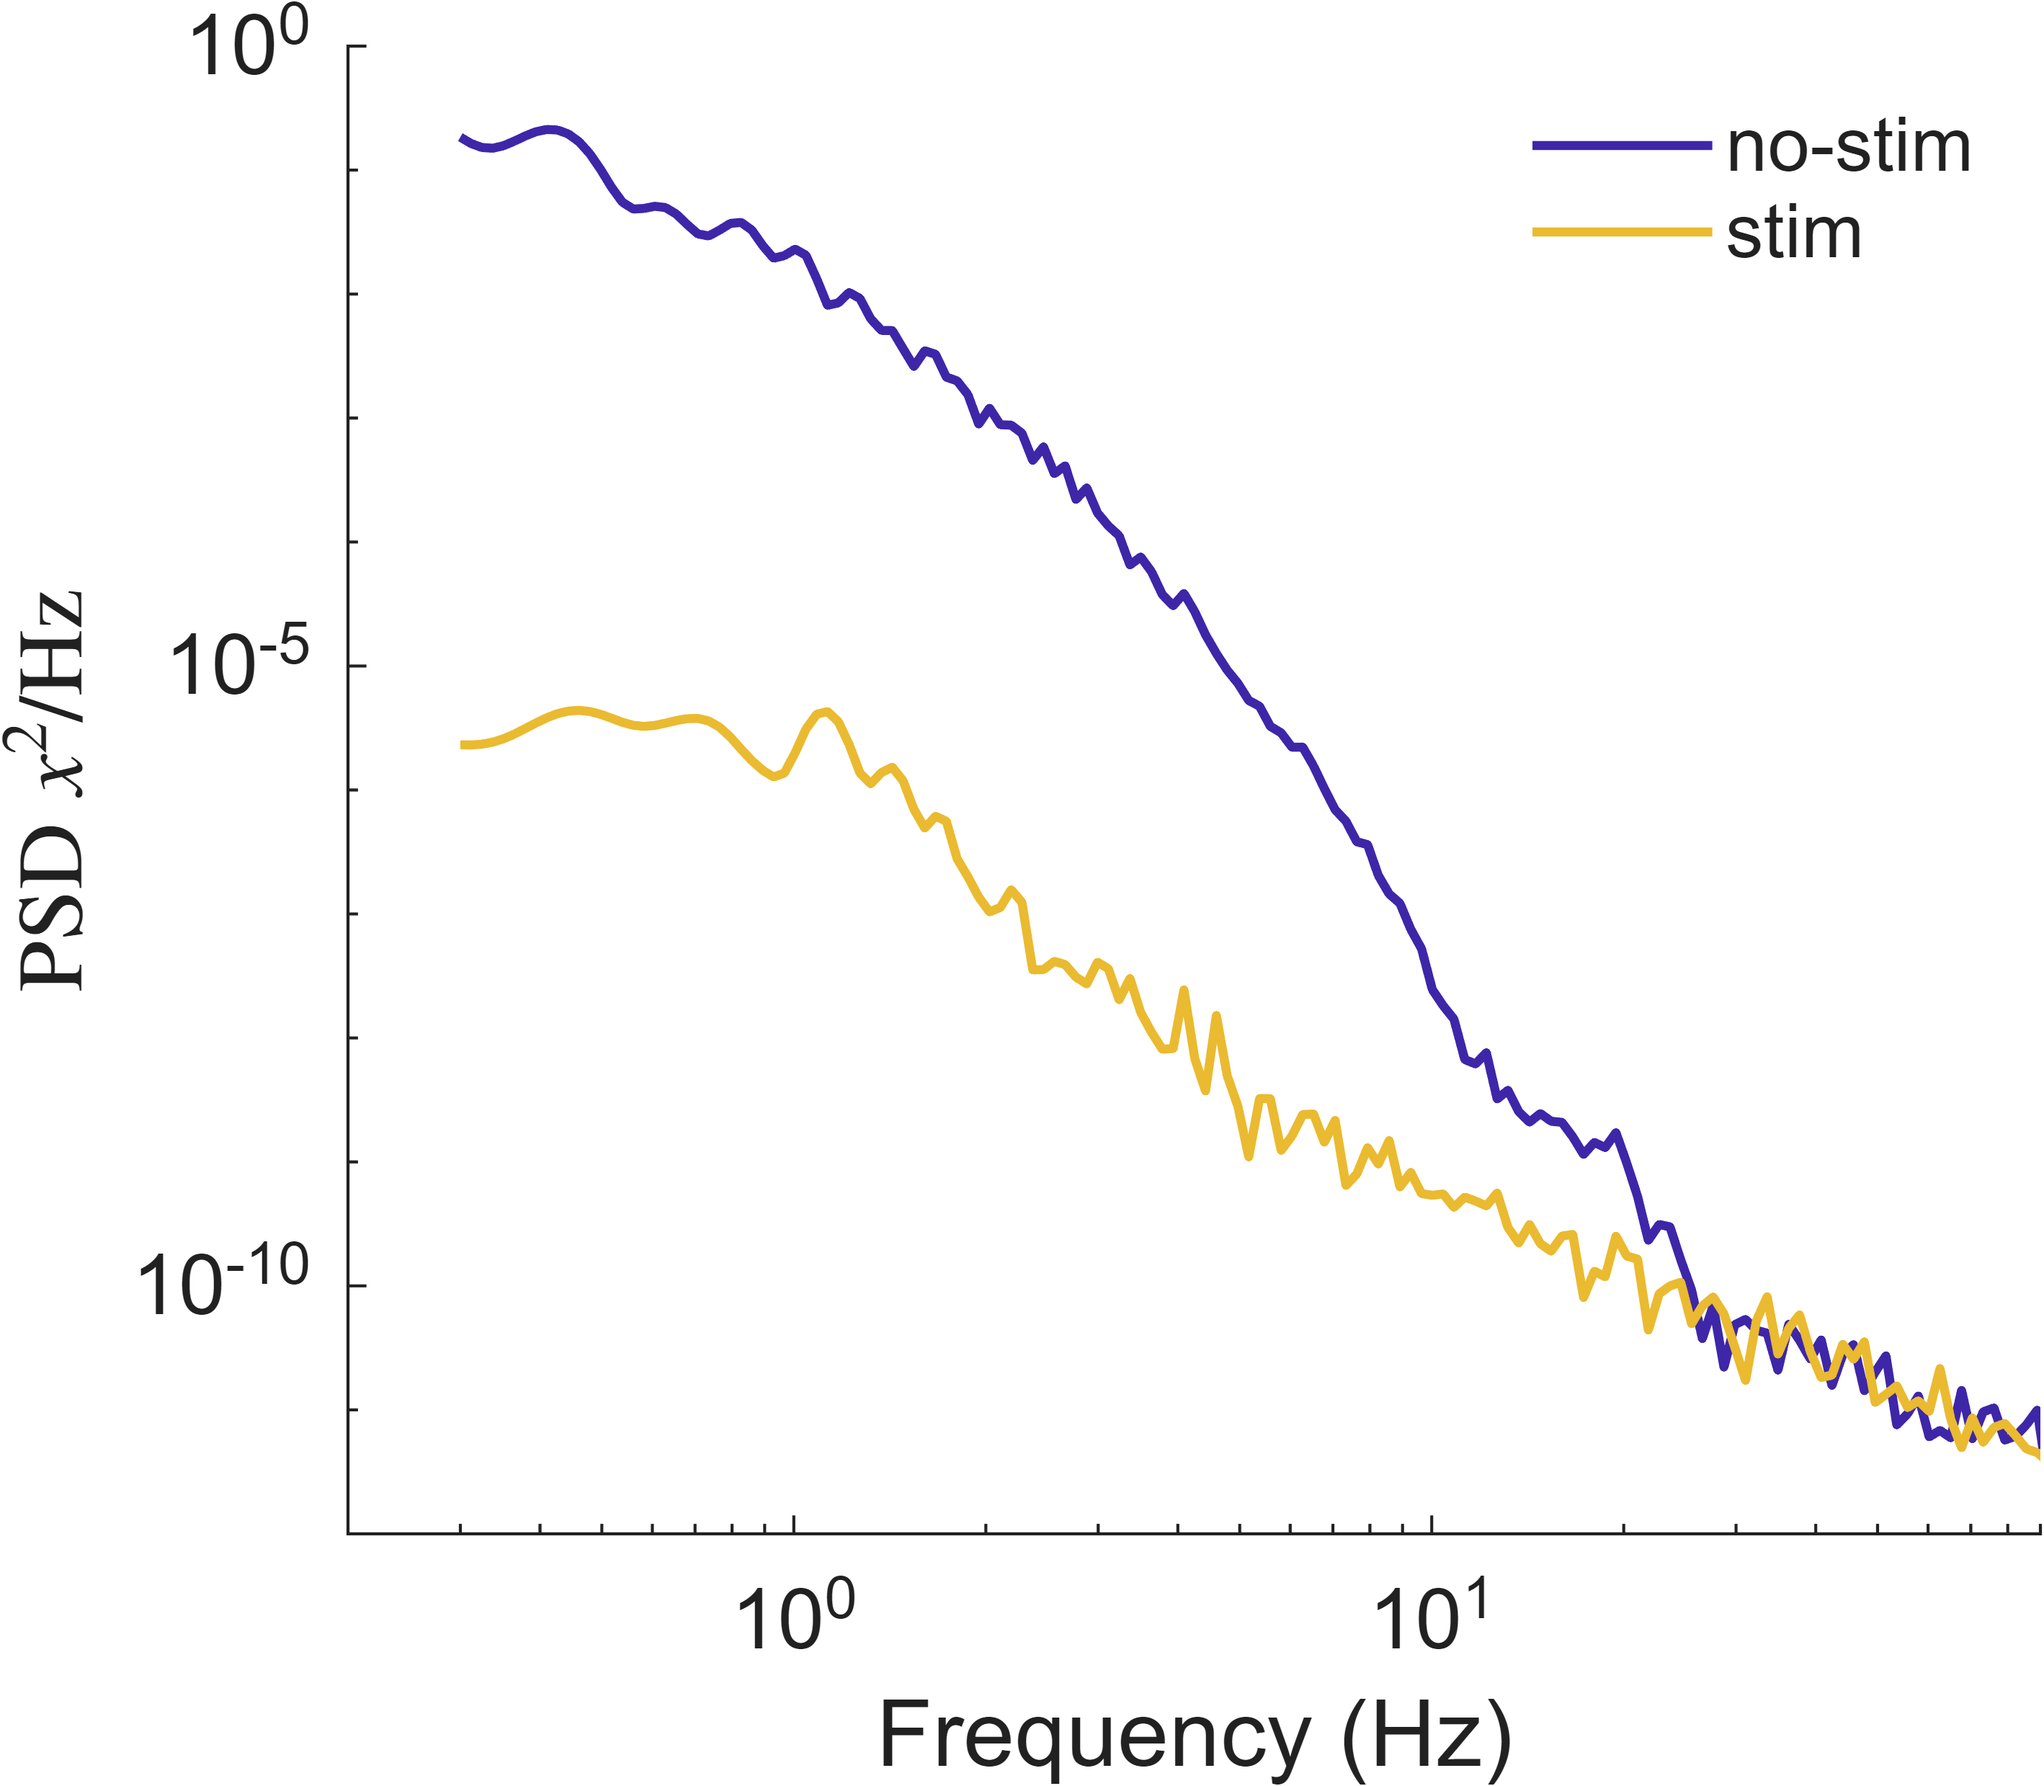
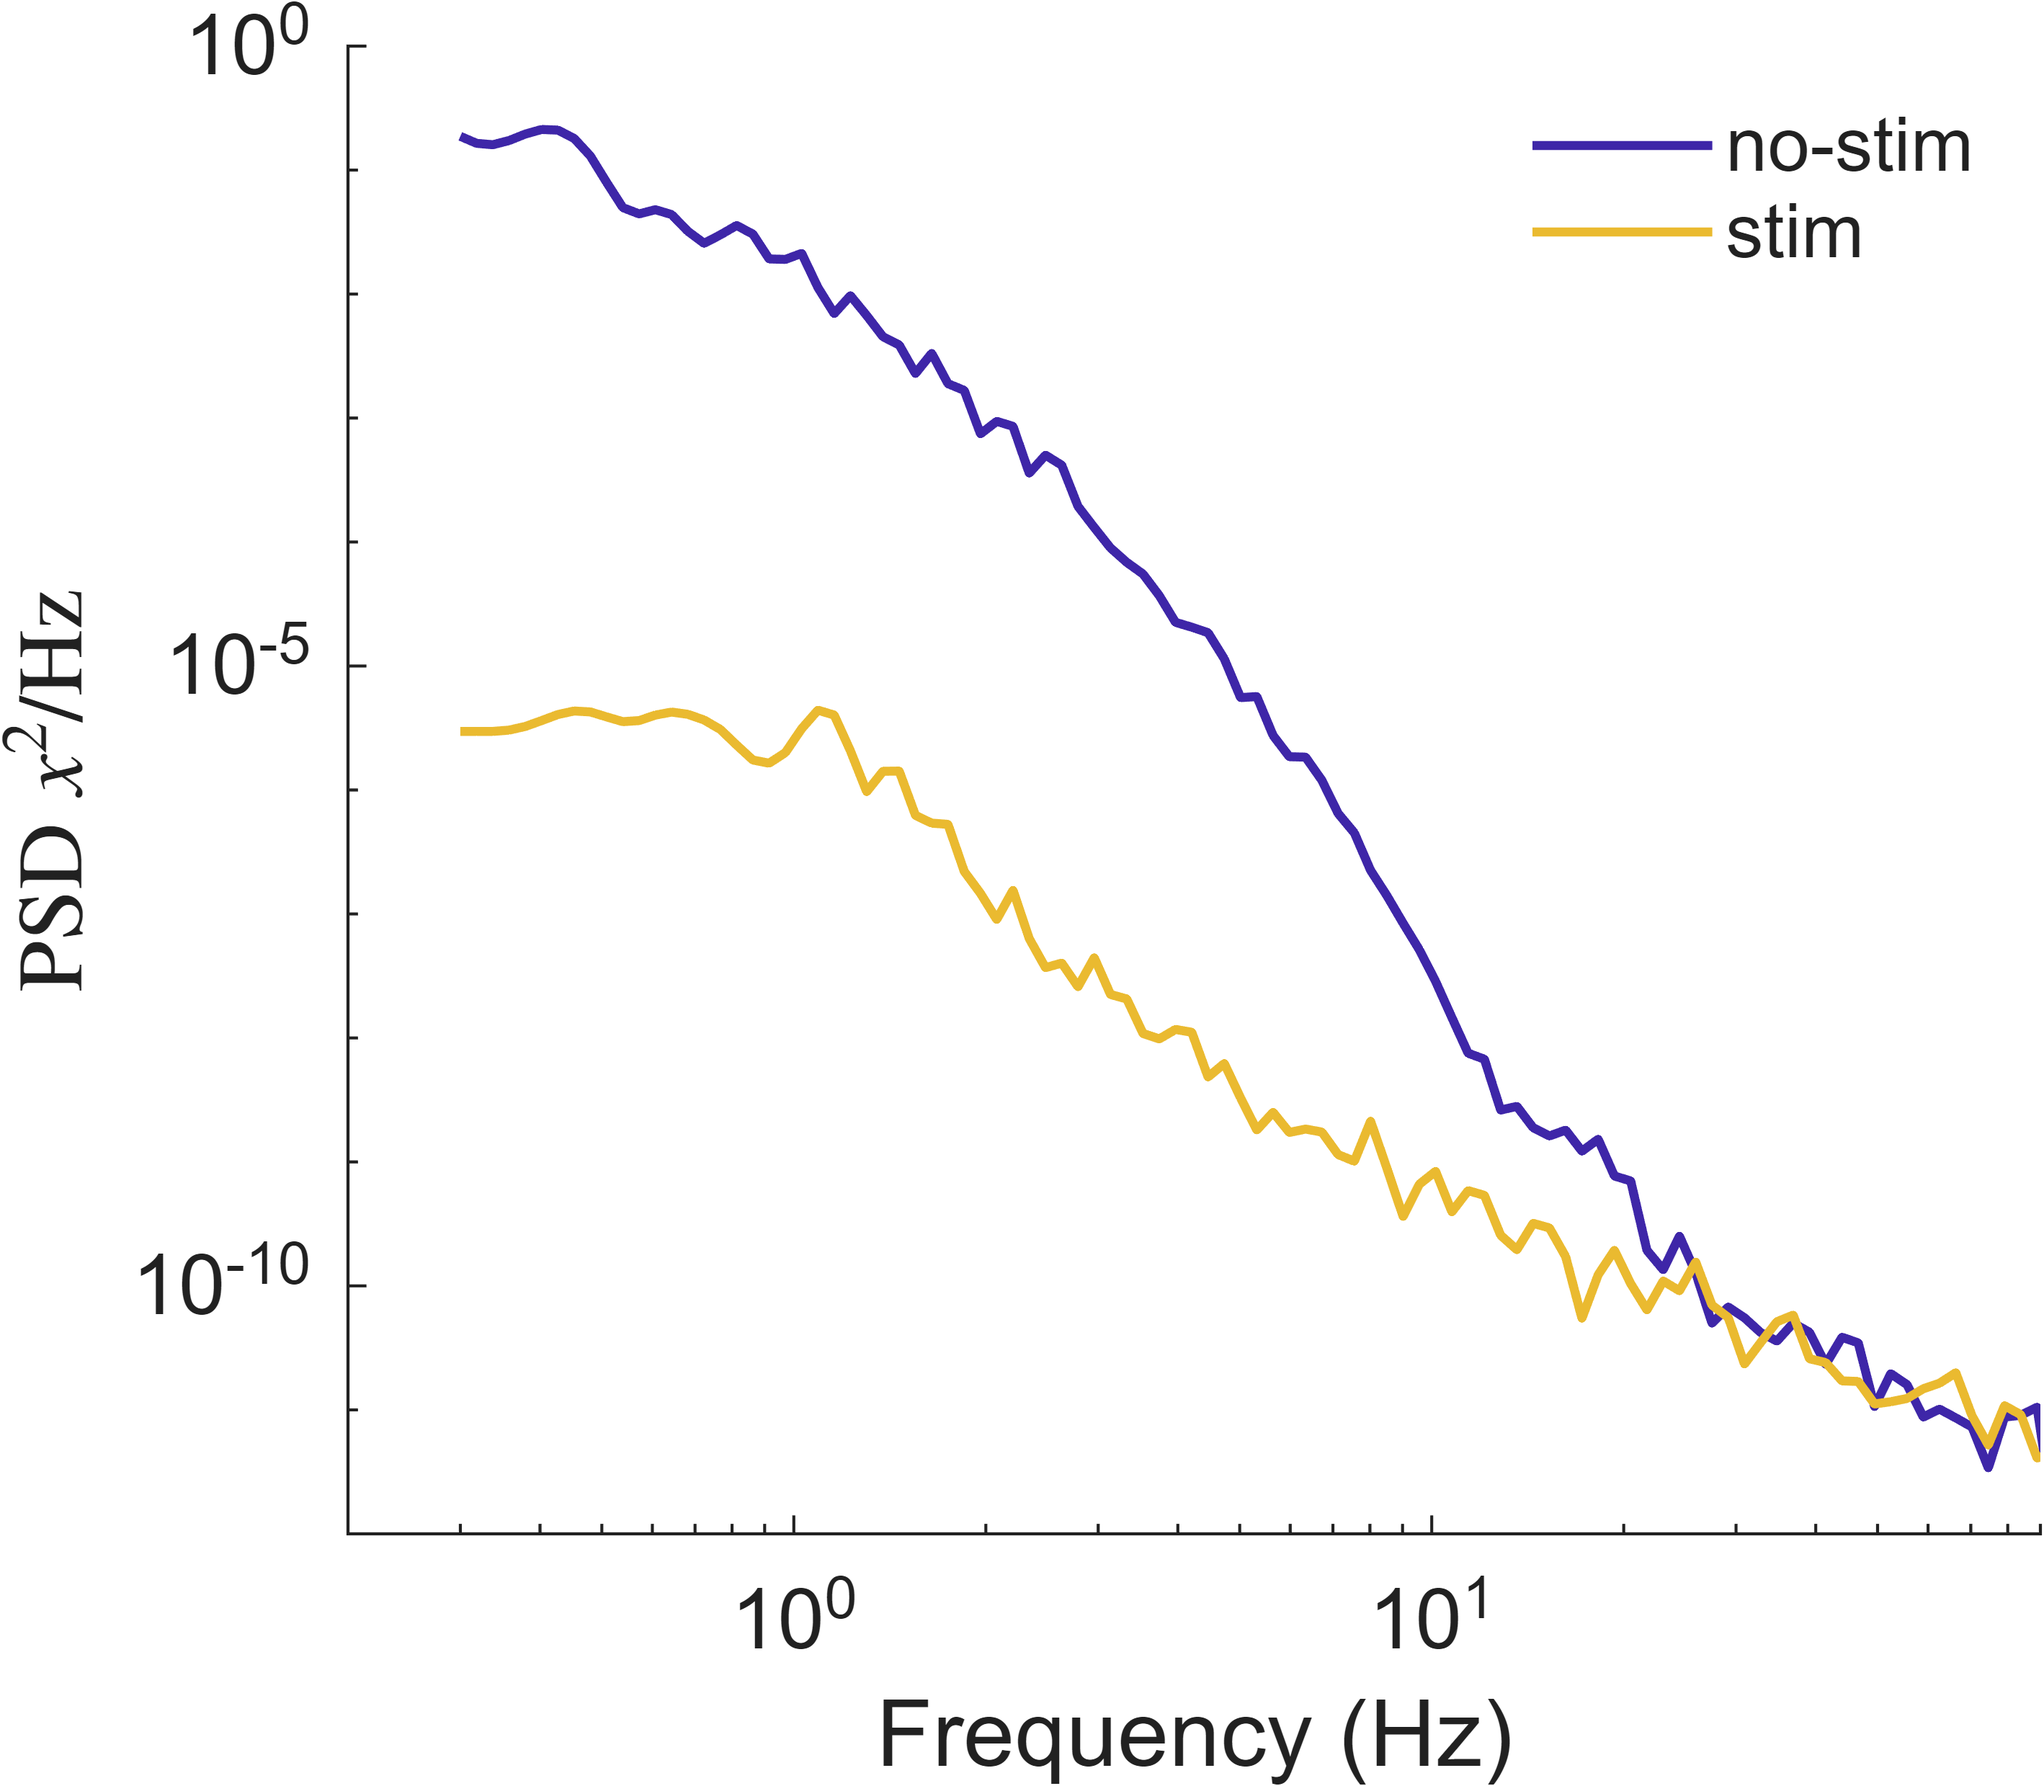
matching the psd params with cscs

diff --git a/scripts/presentations/Stability_Manuscript/fig_stim_engages_adaptation/bursting_SRNN_example.m b/scripts/presentations/Stability_Manuscript/fig_stim_engages_adaptation/bursting_SRNN_example.m
@@ -20,17 +20,6 @@
 
 close all; clc;
 
-% --- RNG seeds: persist & advance across successive runs --------------------
-% On the first run, initialize rng_seeds = [1 2]. On every subsequent run,
-% increment both seeds so each execution explores a new network / stimulus
-% realization. clearvars wipes everything EXCEPT rng_seeds, so the value
-% survives from one run to the next (it lives in the base workspace).
-% if exist('rng_seeds', 'var')
-%     rng_seeds = rng_seeds + 1
-% else
-%     rng_seeds = [1 2]
-% end
-
 % rng_seeds = [19 20]
 rng_seeds = [42 42];
 
@@ -211,8 +200,8 @@ save_types = {'png'};   % formats; pdf bundles all figs into one _report.pdf
 %  hold_dur (and psd_win_len_s) for finer low-frequency resolution (~1/win).
 psd_settle       = 15;    % seconds to skip after each DC step before the PSD window
 psd_win_len_s    = 10;    % Hamming window length (s)   [template used 15]
-psd_overlap_frac = 0.75;  % segment overlap fraction    [template used 0.75]
-psd_f            = logspace(log10(0.3), log10(100), 150);  % requested freqs (Hz)
+psd_overlap_frac = 0.5;  % segment overlap fraction    [template used 0.75]
+psd_f            = logspace(log10(0.3), log10(100), 100);  % requested freqs (Hz)
 
 %% ======================================================================
 %  11. POPULATION SYNCHRONY  (chi^2, Golomb-Rinzel), per DC level
